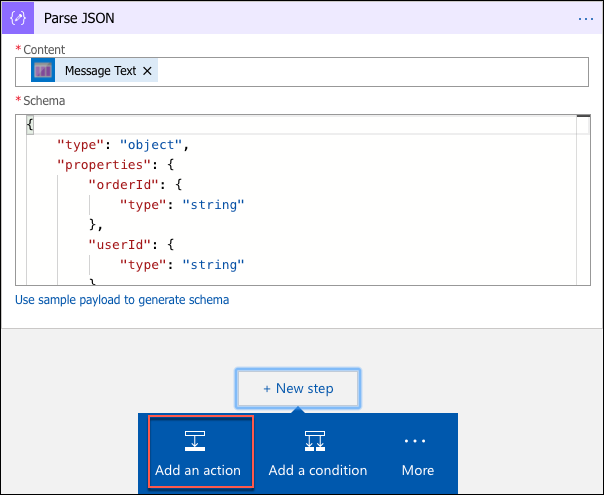
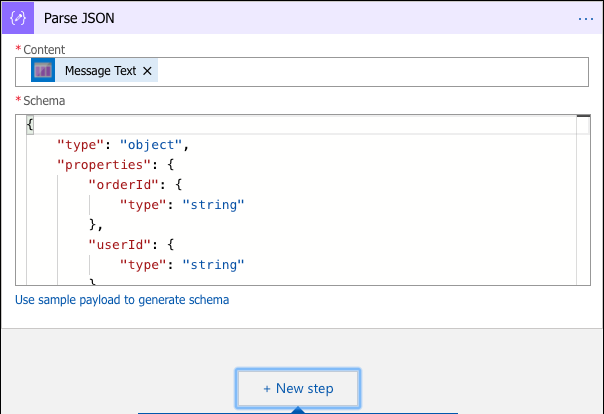
update function app

diff --git a/Hands-on lab/HOL step-by step - OSS PaaS and DevOps.md b/Hands-on lab/HOL step-by step - OSS PaaS and DevOps.md
@@ -1464,14 +1464,15 @@ In this task, you will create a function that will be triggered whenever a docum
 
     ![Functions is selected and highlighted in the left-hand menu on the Function Apps blade, and + New function is highlighted on the right.](media/image188.png "Function Apps blade")
 
-3. In the trigger search box, enter "cosmos," and select the **Cosmos DB trigger**.
+3. In the trigger search box, enter "cosmos," and select the **Azure Cosmos DB trigger**.
 
-    ![In the trigger search box, cosmos is selected, and the Cosmos DB trigger is selected below it.](media/image189.png "Choose a template page")
+    ![In the trigger search box, cosmos is selected, and the Azure Cosmos DB trigger is selected below it.](media/image189.png "Choose a template page")
 
-4. In the **Cosmos DB trigger** dialog, enter the following:
+4.  Install any extensions required when prompted.
 
-    - **Language**: Select **JavaScript**.
-
+    ![A warning indicating that extensions are required is displayed.](media/install-trigger-extensions.png "Install extensions")
+5. In the **Azure Cosmos DB trigger** dialog, enter the following:
+    
     - **Name**: Enter "OrdersCosmosTrigger".
 
     - **Azure Cosmos DB account connection**: Select **new**, then select the **best-for-you-db DocumentDB** Account.
@@ -1500,7 +1501,9 @@ In this task, you will create a function that will be triggered whenever a docum
 
     ![+ New Output is highlighted under Outputs, Azure Queue Storage is selected below it, and Select is selected at the bottom.](media/image193.png "Select Azure Queue Storage")
 
-8. For the **Azure Queue Storage output**, enter the following:
+8. Install extensions if prompted to do so.
+
+9. For the **Azure Queue Storage output**, enter the following:
 
     - **Message parameter name**: outputQueue
 
@@ -1512,27 +1515,27 @@ In this task, you will create a function that will be triggered whenever a docum
 
     ![The information above is entered in the Azure Queue Storage output dialog box, and Save is selected at the bottom.](media/image194.png "Azure Queue Storage output page")
 
-9. Now, select the **OrdersCosmosTrigger** function in the left-hand menu.
+10. Now, select the **OrdersCosmosTrigger** function in the left-hand menu.
 
     ![The OrdersCosmosTrigger function is selected in the left-hand menu.](media/image195.png "Left menu")
 
-10. To get the code for the OrdersCosmosTrigger function, go into the project is VS Code, expand the AzureFunctions folder, select **OrdersCosmosTrigger.js**, and copy the code, as highlighted in the screen shot below.
+11. To get the code for the OrdersCosmosTrigger function, go into the project is VS Code, expand the AzureFunctions folder, select **OrdersCosmosTrigger.js**, and copy the code, as highlighted in the screen shot below.
 
     ![Under the AzureFunctions folder in Visual Studio Code, OrdersCosmosTrigger.js is selected and highlighted in Explorer. On the right, the code for the OrdersCosmosTrigger function is highlighted.](media/image196.png "Visual Studio Code")
 
-11. Paste the code into the **index.js** block, overwriting all the existing code, and select **Save**. Your index.js file should now look like the following:
+12. Paste the code into the **index.js** block, overwriting all the existing code, and select **Save**. Your index.js file should now look like the following:
 
     ![This is a screenshot of the index.js block.](media/image197.png "Index.js block")
 
-12. Next, select **Logs** below the code block, so you can observe the Function being called during the next steps.
+13. Next, select **Logs** below the code block, so you can observe the Function being called during the next steps.
 
     ![Logs is highlighted below the code block.](media/image198.png "Select Logs")
 
-13. To trigger the function, return to the starter application in your browser window, and select **Sign In**.
+14. To trigger the function, return to the starter application in your browser window, and select **Sign In**.
 
     ![Two Person Plan, High-Pro Plan, and Four Person Plan boxes are visible in this screenshot of the starter application, and Sign In is highlighted at the top.](media/image199.png "Sign in to the starter application")
 
-14. On the Login screen, enter the following credentials, and select **Login**:
+15. On the Login screen, enter the following credentials, and select **Login**:
 
     - **Email address:** <demouser@bfyo.com>
 
@@ -1540,29 +1543,29 @@ In this task, you will create a function that will be triggered whenever a docum
 
     ![The credentials above are entered in the Login page.](media/image200.png "Login page")
 
-15. After logging in, you will be returned to the home page. Select **Select this plan** for any of the plans.
+16. After logging in, you will be returned to the home page. Select **Select this plan** for any of the plans.
 
     ![Two Person Plan, High-Pro Plan, and Four Person Plan boxes are visible in this screenshot of the home page, and all three boxes' Select this plan buttons are highlighted.](media/image201.png "Select a plan")
 
-16. On the **Place Order** screen, select **Place Order**. This will create a new order, which will fire the Azure Cosmos DB trigger in your function, and then send the order on to the ordersqueue for processing.
+17. On the **Place Order** screen, select **Place Order**. This will create a new order, which will fire the Azure Cosmos DB trigger in your function, and then send the order on to the ordersqueue for processing.
 
     ![The Place Order button is highlighted at the bottom of the Place Order page.](media/image202.png "Place your order page")
 
-17. Next, you will update an order in the Azure portal, to set the processed value to true. This will be a change that should not be sent into the orderqueue for processing.
+18. Next, you will update an order in the Azure portal, to set the processed value to true. This will be a change that should not be sent into the orderqueue for processing.
 
-18. Navigate to your Cosmos DB account in the Azure portal, select **Data Explorer**, expand the **orders** collection, then select **Documents**.
+19. Navigate to your Cosmos DB account in the Azure portal, select **Data Explorer**, expand the **orders** collection, then select **Documents**.
 
     ![Data Explorer is selected and highlighted on the left side of the Cosmos DB account in the Azure portal, and Documents is selected and highlighted in the expanded orders collection.](media/image203.png "Azure Cosmos DB account blade")
 
-19. Select any order document, and change the processed value to "true," then select **Update**.
+20. Select any order document, and change the processed value to "true," then select **Update**.
 
     ![Update is highlighted at the top of a document, and true is highlighted next to the processed value.](media/image204.png "Change the processed value to true")
 
-20. Return to the logs pane of your function and observe that the orders have been processed though the Function, and that the new order was sent to the orderqueue, while the updated order was not.
+21. Return to the logs pane of your function and observe that the orders have been processed though the Function, and that the new order was sent to the orderqueue, while the updated order was not.
 
     ![The new order and the updated order are highlighted in the logs pane of your function.](media/image205.png "Logs pane")
 
-21. Finally, verify items are being written to the order queue, by going to the queue in the Azure Storage account, and observing that items have been added to the queue.
+22. Finally, verify items are being written to the order queue, by going to the queue in the Azure Storage account, and observing that items have been added to the queue.
 
     ![The Refresh button is highlighted in the Azure Storage account, and Message Text appears in the order queue below.](media/image206.png "Messages blade")
 
@@ -1580,13 +1583,11 @@ This will use an Azure Storage Queue trigger, and an input dataset from Cosmos D
 
     ![The Go button is next to Create a new function triggered by this output under Actions.](media/image208.png "Actions section")
 
-3. Select **Queue trigger** from the list.
-
-    ![This is a screenshot of the Queue trigger box.](media/image209.png "Queue trigger box")
+3. Select **Azure Queue Storage trigger** from the list.
+    
+    ![This is a screenshot of the Queue trigger box.](media/azure-queue-storage-trigger.png "Queue trigger box")
 
 4. On the **Queue trigger New Function** dialog, enter the following:
-
-    - **Language:** Select **JavaScript**.
 
     - **Name:** Enter ProcessOrders.
 
@@ -1596,7 +1597,7 @@ This will use an Azure Storage Queue trigger, and an input dataset from Cosmos D
 
     - Select **Create**.
 
-        ![The information above is entered in the Queue trigger New Function dialog box.](media/image210.png "Queue trigger New Function dialog box")
+         ![The information above is entered in the Queue trigger New Function dialog box.](media/process-orders-function.png "Queue trigger New Function dialog box")
 
 5. When the function has been created, select **Integrate** under the **ProcessOrders** function, change the Message parameter name to "orderToProcess" for the **Azure Queue storage trigger**, and select **Save**.
 
@@ -1764,11 +1765,7 @@ In this task, you will create a new Logic App, which will use the Twilio connect
 
 3. Navigate to your newly created Logic App in the Azure portal.
 
-4. Select the **Logic App Designer** under **Development Tools** on the left-hand menu.
-
-    ![Logic App Designer is selected under Development Tools in the left-hand menu of your newly created Logic App.](media/image233.png "Development Tools section")
-
-5. In the Logic App Designer, select **Blank Logic App** under **Templates**.
+4. In the Logic App Designer, select **Blank Logic App** under **Templates**.
 
     ![Blank Logic App is highlighted under Templates in Logic App Designer Templates section.](media/image234.png "Logic App Designer, Templates section")
 
@@ -1784,13 +1781,14 @@ In this task, you will create a new Logic App, which will use the Twilio connect
 
     ![In the When there are messages in a queue dialog box, Bestforyouorders is in the Connection Name box, the bestforyouorders row is highlighted at the top of the list below Storage account, and the Create button is highlighted at the bottom.](media/image237.png "When there are messages in a queue dialog box")
 
-9. In the next When there are messages in a queue dialog, select **notificationqueue** from the **Queue Name** list, and set the interval to **1** **minute**, then select **+New step**, and **Add an action**.
+9. In the next When there are messages in a queue dialog, select **notificationqueue** from the **Queue Name** list, and set the interval to **1** **minute**, then select **+New step**.
 
     ![The information above is entered in the When there are messages in a queue dialog box.](media/image238.png "When there are messages in a queue dialog box")
 
 10. In the **Choose an action box**, enter "Parse," and select **Data Operations** **-- Parse JSON** from the list.
 
-    ![In the When there are messages in a queue dialog box, Parse is in the Choose an action box, and Data Operations -- Parse JSON is highlighted below in the list.](media/image239.png "When there are messages in a queue dialog box")
+
+    ![In the When there are messages in a queue dialog box, Parse is in the Choose an action box, and Data Operations -- Parse JSON is highlighted below in the list.](media/data-operations-parse.png "When there are messages in a queue dialog box")
 
 11. Select the **Content** box, select **Add dynamic content +**, then select **Message Text** from the input parameters list that appears.
 
@@ -1808,9 +1806,9 @@ In this task, you will create a new Logic App, which will use the Twilio connect
 
     ![The JSON above is pasted in the sample JSON payload dialog box, and Done is selected below.](media/image242.png "Paste the JSON in the dialog box")
 
-14. You will now see the Schema for messages coming from the notification queue in the Schema box. Select **+New** **step** and select **Add an action**.
+14. You will now see the Schema for messages coming from the notification queue in the Schema box. Select **+New** **step**.
 
-    ![The Add an action button under + New step is highlighted in the Schema box.](media/image243.png "Parse JSON window")
+    ![The + New step is highlighted in the Schema box.](media/image243.png "Parse JSON window")
 
 15. In the **Choose an action box**, enter "Twilio," and select **Twilio -- Send Text Message (SMS)** under Actions.
 
@@ -1840,7 +1838,7 @@ In this task, you will create a new Logic App, which will use the Twilio connect
 
     ![The information above is entered in the next Send Text Message (SMS) dialog box.](media/image247.png "Send Text Message (SMS) dialog box")
 
-18. Select **+New step** and **Add an action**.
+18. Select **+New step**.
 
     ![The Add an action button is highlighted under + New step.](media/image248.png "Add an action button")
 
